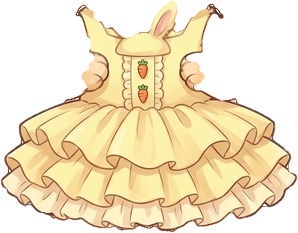
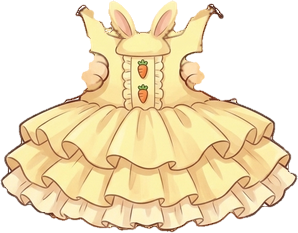
미리보기에 이벤트 창(열애설·논란·사생팬), 노랑 토끼 원피스 왼쪽 귀 살리기

Changed region(s): [[0.3322, 0.0, 0.4832, 0.1803]]

diff --git a/index.html b/index.html
@@ -1311,7 +1311,7 @@ document.body.insertAdjacentHTML('afterbegin', puppetDefs());
 const blinkDelay = m => `animation-delay:${-((m.hue || 0) % 46) / 10}s`;
 // ===== 2D 고양이 아이돌 (그림 AI 그림 + 휘는 메시 애니메이션, cat2d.js) =====
 const CATS = [['cheese', '치즈'], ['tuxedo', '턱시도'], ['calico', '삼색'], ['black', '까망'], ['white', '하양'], ['tabby', '고등어'], ['siamese', '샴'], ['gray', '러블']];
-const CATV = '?v=18';
+const CATV = '?v=19';
 // 옷·소품 (art/cat/item-*.png, 좌표는 items.json). 무대에서는 콘셉트 의상, 평소엔 멤버별로 고른 옷
 const WEAR_CLOTH = [[null, '없음'], ['hoodie', '후드 조끼'], ['sport', '운동복'], ['dress', '프릴 원피스'], ['sailor', '세일러'], ['leather', '가죽 조끼'], ['cape', '별빛 망토'], ['polka', '물방울 원피스'], ['jersey', '힙합 저지'], ['ballad', '흰 드레스'], ['reddress', '빨간 드레스']];
 const WEAR_ACC = [[null, '없음'], ['ribbon', '리본'], ['crown', '왕관'], ['headset', '헤드셋 마이크'], ['beret', '베레모'], ['cap', '야구 모자'], ['sunglasses', '선글라스'], ['flower', '꽃 화관'], ['bowtie', '나비넥타이']];
@@ -1988,12 +1988,13 @@ const PV_SCENES = [['stage', '🎤 음악 방송'], ['win', '🏆 1위'], ['conc
 const PV_MODES = [['auto', '장면에 맞게'], ['idle', '대기'], ['dance', '춤'], ['cheer', '만세'], ['wave', '손 흔들기'], ['sleep', '졸기'], ['sad', '시무룩']];
 function pvStart() {
   window.PV = { scene: 'stage', dorm: 'd2', n: 5, cats: CATS.map(c => c[0]), mode: 'auto', cloth: 'auto', acc: '', concept: 'cute', gal: 'cheese' };
-  save = () => {};
+  save = () => {}; render = () => pvRender();   // 미리보기에서는 저장·게임 화면 그리기 안 함
   S = { v: 1, name: '미리보기', gender: 'girl', week: 1, money: 0, fans: 0, fame: 50, members: [], dorm: { id: 'd2', since: 0 }, promo: null, albums: [], offers: [], news: [], pending: [], festival: null, awards: [], eventWear: {} };
   pvRender();
 }
 function pvMembers() {
-  return PV.cats.slice(0, PV.n).map((c, i) => ({ id: 'pv' + i, name: (CATS.find(x => x[0] === c) || ['', ''])[1], cat: c, stats: { person: 50 }, wear: { cloth: null, acc: PV.acc || null }, hue: i * 50 }));
+  PV.mem = PV.mem || {};
+  return PV.cats.slice(0, PV.n).map((c, i) => { const m = PV.mem[c] || (PV.mem[c] = Object.assign(newMember((CATS.find(x => x[0] === c) || ['', ''])[1]), { id: 'pv-' + c, cat: c })); m.wear = { cloth: null, acc: PV.acc || null }; m.busy = null; return m; });
 }
 function pvRender() {
   if (!window.PV) return;
@@ -2005,7 +2006,7 @@ function pvRender() {
   const gm = { id: 'g', cat: PV.gal, stats: { person: 50 }, wear: {}, hue: 300 };
   $('#app').innerHTML = `<header><div class="top"><div class="ribbon">🔍 미리보기</div><a class="btn sub small" href="./" style="margin-left:auto">게임으로 ▶</a></div></header>
 <p class="muted center">게임을 하지 않고 장면·인원·옷·동작을 바로 골라 볼 수 있어요. 여기서 바꾼 건 저장되지 않아요.</p>
-<div class="st3host" id="st3host">${bgHTML(PV.scene)}</div>
+<div class="st3host" id="pvstage">${bgHTML(PV.scene)}</div>
 <div class="card">
 <label class="f">장면</label><select class="full" data-pvsel="scene">${PV_SCENES.map(([k, l]) => `<option value="${k}"${PV.scene === k ? ' selected' : ''}>${l}</option>`).join('')}</select>
 ${PV.scene === 'dorm' ? `<label class="f">숙소 종류</label><select class="full" data-pvsel="dorm">${DORMS.map(d => `<option value="${d.id}"${PV.dorm === d.id ? ' selected' : ''}>${d.name}</option>`).join('')}</select>` : ''}
@@ -2016,13 +2017,21 @@ ${PV.scene === 'dorm' ? `<label class="f">숙소 종류</label><select class="fu
 ${PV.cloth === 'auto' ? `<label class="f">무대 콘셉트 (자동일 때 음악 방송·1위 장면 옷)</label><select class="full" data-pvsel="concept">${CONCEPTS.map(c => `<option value="${c.id}"${PV.concept === c.id ? ' selected' : ''}>${conceptLabel(c)}</option>`).join('')}</select>` : ''}
 <label class="f">소품</label><select class="full" data-pvsel="acc">${WEAR_ACC.filter(([k]) => !k || ITEMINFO[k]).map(([k, l]) => `<option value="${k || ''}"${(PV.acc || '') === (k || '') ? ' selected' : ''}>${l}</option>`).join('')}</select>
 </div>
+<h2>이벤트 창</h2><div class="card"><p class="muted">맨 앞 고양이(${esc(S.members[0] ? S.members[0].name : '')})에게 일이 생긴 걸로 창을 띄워요. 대처를 골라 결과 창까지 볼 수 있어요.</p><div class="chips">${[['열애', '💑 열애설'], ['인성', '😠 인성 논란'], ['실력', '🎤 실력 논란'], ['외모', '💄 외모 논란'], ['말실수', '💬 말실수'], ['사생', '👁 사생팬']].map(([k, l]) => `<button class="chip" data-pvev="${k}">${l}</button>`).join('')}</div></div>
 <h2>옷·소품 도감</h2><div class="card"><label class="f">입혀 볼 고양이</label><div class="chips">${CATS.map(([k, l]) => chip('pvgal', k, PV.gal, l)).join('')}</div>
 <div class="pvgrid">${items.map(([k, n]) => `<div>${avatar(gm, 84, true, k)}<small>${esc(n)}</small></div>`).join('')}</div></div>`;
-  if (PV.scene !== 'clinic') mount2d($('#st3host'), S.members, PV.scene);
+  if (PV.scene !== 'clinic' && !dlg.open) mount2d($('#pvstage'), S.members, PV.scene);   // 이벤트 창이 열려 있으면 그 창 무대를 그대로 둠
 }
 document.addEventListener('click', e => {
-  if (!window.PV) return; const t = e.target.closest('[data-pvn],[data-pvmode],[data-pvshuffle],[data-pvgal]'); if (!t) return;
+  if (!window.PV) return; const t = e.target.closest('[data-pvn],[data-pvmode],[data-pvshuffle],[data-pvgal],[data-pvev]'); if (!t) return;
   const d = t.dataset;
+  if (d.pvev) {   // 논란·사생팬 창 띄우기 (게임과 같은 창)
+    const m = S.members[0], k = d.pvev; if (!m) return;
+    const head = k === '사생' ? pick(['숙소 앞까지 따라온 사생팬', '이동 차량을 쫓아온 사생팬']) : pick(HEAD[k]);
+    S.pending = [{ mid: m.id, name: m.name, kind: k, sev: k === '열애' ? 2 : ri(1, 3), truth: Math.random() < .5, head }];
+    S.fans = Math.max(S.fans, 20000); S.money = Math.max(S.money, 50000);
+    return nextPopup();
+  }
   if (d.pvn) PV.n = +d.pvn; if (d.pvmode) PV.mode = d.pvmode; if (d.pvgal) PV.gal = d.pvgal;
   if (d.pvshuffle) PV.cats = PV.cats.map(c => [Math.random(), c]).sort((a, b) => a[0] - b[0]).map(x => x[1]);
   pvRender();

diff --git a/cat-live.html b/cat-live.html
@@ -25,7 +25,7 @@ p{color:#8a6f7a;font-size:13px;line-height:1.5}
 <p>그림 AI로 그린 고양이를 몸통·팔·꼬리·표정으로 나누고, 그림을 <b>휘고 늘리는</b> 방식(Live2D·Spine과 같은 원리)으로 움직여요. 팔과 꼬리는 붙은 곳은 고정되고 끝으로 갈수록 휘어서 이음새가 없어요. 머리는 목 부분이 부드럽게 늘어나며 기울고, 숨 쉴 때 몸이 살짝 부풀어요.</p>
 </main>
 <script type="module">
-import { loadCat, makeCat, loadItems } from './cat2d.js?v=18';
+import { loadCat, makeCat, loadItems } from './cat2d.js?v=19';
 const MODES = { idle: '대기', dance: '춤', cheer: '만세(1위)', wave: '손 흔들기', sleep: '졸기', sad: '시무룩' };
 const cv = document.getElementById('st');
 const app = new PIXI.Application({ view: cv, backgroundAlpha: 0, antialias: true, width: cv.clientWidth, height: cv.clientHeight, resolution: Math.min(2, devicePixelRatio || 1), autoDensity: true });

diff --git a/cat2d.js b/cat2d.js
@@ -1,6 +1,6 @@
 // ===== 2D 고양이 아이돌 (그림을 휘고 늘리는 메시 애니메이션, PixiJS) =====
 // 부위 그림(몸통·팔·꼬리·표정)을 격자 모양 메시로 붙이고, 꼭짓점을 움직여서 이음새 없이 휘게 만듦.
-const ART = new URL('art/cat/', import.meta.url).href, VER = '?v=18';   // 고치면 숫자 올리기 (브라우저 저장본 대신 새 파일)
+const ART = new URL('art/cat/', import.meta.url).href, VER = '?v=19';   // 고치면 숫자 올리기 (브라우저 저장본 대신 새 파일)
 const sstep = (a, b, x) => { const t = Math.max(0, Math.min(1, (x - a) / (b - a))); return t * t * (3 - 2 * t); };
 const rot = (x, y, cx, cy, a) => { const c = Math.cos(a), s = Math.sin(a); return [cx + (x - cx) * c - (y - cy) * s, cy + (x - cx) * s + (y - cy) * c]; };
 

diff --git a/sw.js b/sw.js
@@ -1,5 +1,5 @@
 // 인터넷이 없어도 열리도록 앱 파일을 저장해 둠. 앱을 고치면 VERSION 숫자를 올릴 것.
-const VERSION = "v32";
+const VERSION = "v33";
 const FILES = ["./", "index.html", "manifest.webmanifest", "icon-180.png", "icon-192.png", "icon-512.png"];
 self.addEventListener("install", e => { e.waitUntil(caches.open(VERSION).then(c => c.addAll(FILES))); self.skipWaiting(); });
 self.addEventListener("activate", e => { e.waitUntil(caches.keys().then(ks => Promise.all(ks.filter(k => k !== VERSION).map(k => caches.delete(k))))); self.clients.claim(); });
